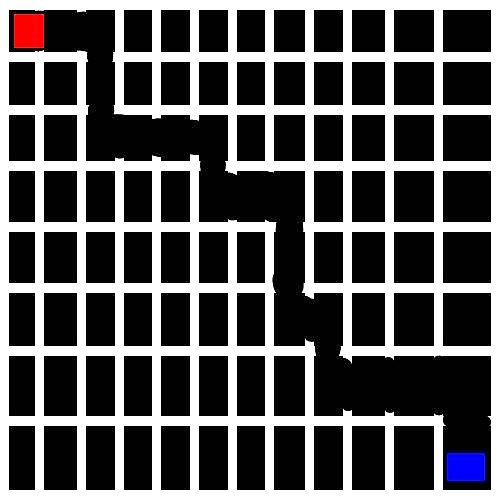
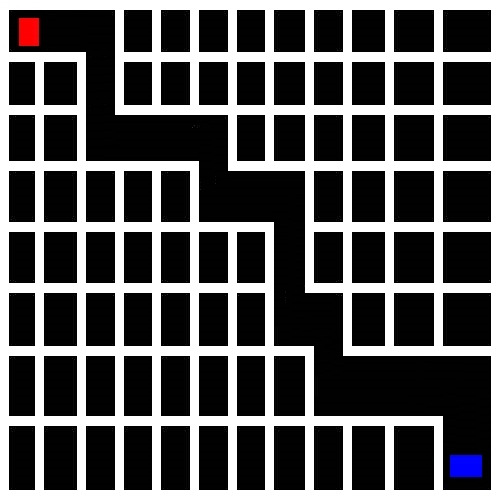
added day12 main file

diff --git a/Day12/main.cpp b/Day12/main.cpp
@@ -93,26 +93,12 @@ coordinate getStartingPostion(std::vector<std::vector<RGB>>& mat, int width, int
 
 void drawDotsUtils(std::vector<std::vector<RGB>>& mat, int width, int height,int i,int j){
     if(i<0 || j<0 || i>=height || j>=width) return;
-    // if(isWhite(mat[i][j])) 
-    // {
-    //     std::cout<<"White detectected at "<<i<<","<<j<<std::endl;
-    //     return;
-    // }
-    if(isGreen(mat[i][j])) {
-        std::cout<<"Green detected"<<std::endl;
+    
+    if(isWhite(mat[i][j]) || isGreen(mat[i][j]) || isRed(mat[i][j]) || isBlue(mat[i][j])){
         return;
-    }
-    // if(isRed(mat[i][j])) {
-    //     std::cout<<"Red detected"<<std::endl;
-    //     return;
-    // }
-    // if(isBlack(mat[i][j])){
-    //     // std::cout<<"Black detected"<<std::endl;
-    //     mat[i][j] = {0x00,0xff,0x00};
-    // }
-
+    } 
+  
     mat[i][j] = {0x00,0xff,0x00};
-    std::cout<<i<<","<<j<<std::endl;
     drawDotsUtils(mat,width,height,i-1,j); //top
     drawDotsUtils(mat,width,height,i+1,j); //bottom
     drawDotsUtils(mat,width,height,i,j-1); //left
@@ -121,8 +107,6 @@ void drawDotsUtils(std::vector<std::vector<RGB>>& mat, int width, int height,int
 
 void drawDots(std::vector<std::vector<RGB>>& mat, int width, int height){
     coordinate coor = getStartingPostion(mat,width,height);
-    coor.x = 70; //height
-    coor.y = 112; //width
     drawDotsUtils(mat,width,height,coor.x,coor.y);
 }
 
@@ -131,11 +115,8 @@ int main(){
     unsigned char* imageData = stbi_load("./maze.jpg",&width,&height,&channels,3);
 
     auto mat = convertTo2D(imageData,width,height); 
-    std::cout<<mat.size()<<","<<mat[0].size()<<std::endl;
     drawDots(mat,width,height);
-    // mat[70][112]={0,0xff,0};
     saveToPNG(mat,width,height,"test.png");
-    // std::cout<<coor.x<<","<<coor.y<<std::endl;
 
     return 0;
 }

diff --git a/readme.md b/readme.md
@@ -77,6 +77,7 @@ The participants were given a task outlined in the document [**Selection Task.md
 
 - Day12
     - [Instruction](https://github.com/bhattaroshan/cpp-training-module/blob/main/Day12/day-12-instructions.md)
+    - [main.cpp](https://github.com/bhattaroshan/cpp-training-module/blob/main/Day12/main.cpp)
 
 - Day13
     - [Instruction]()
